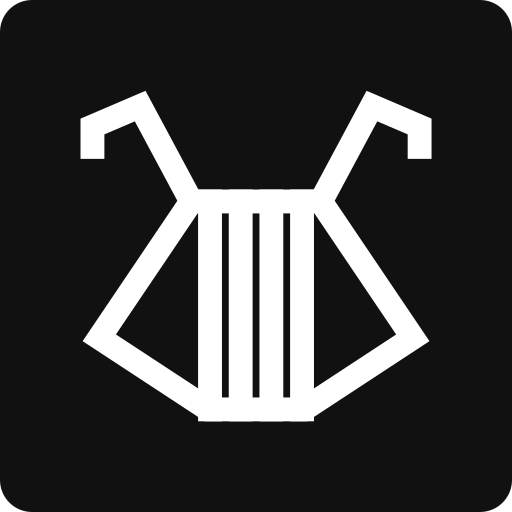
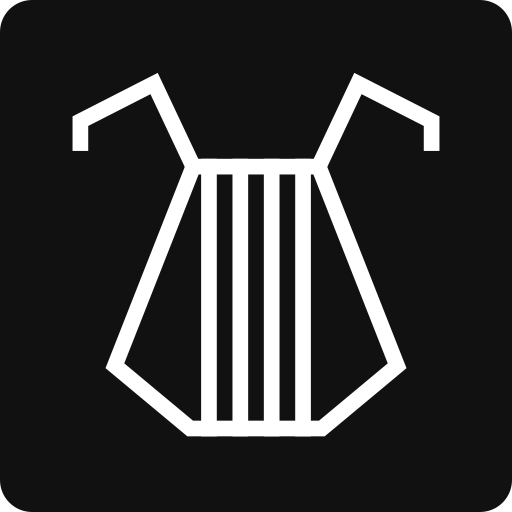
Follow the sketch more closely: taller body, thinner strokes, strings spread across the bar

Changed region(s): [[0.125, 0.125, 0.875, 0.875]]

diff --git a/apps/web/src/ui/brand/Wordmark.tsx b/apps/web/src/ui/brand/Wordmark.tsx
@@ -10,18 +10,18 @@ export function Mark({ size = 20 }: { size?: number }) {
     <svg
       width={size}
       height={size}
-      viewBox="12 24 216 208"
+      viewBox="0 4 240 236"
       className={mark}
       aria-hidden="true"
       fill="none"
       stroke="currentColor"
-      strokeWidth={14}
+      strokeWidth={10}
       strokeLinecap="square"
       strokeLinejoin="miter"
     >
-      <path d="M82 96 H158 L212 176 L148 218 H92 L28 176 Z" />
-      <path d="M82 96 L52 40 L24 52 V64 M158 96 L188 40 L216 52 V64" />
-      <path d="M93 96 V218 M111 96 V218 M129 96 V218 M147 96 V218" />
+      <path d="M80 65 H160 L210 192 L162 232 H78 L30 192 Z" />
+      <path d="M80 65 L55 12 L8 36 V50 M160 65 L185 12 L232 36 V50" />
+      <path d="M90 65 V232 M110 65 V232 M130 65 V232 M150 65 V232" />
     </svg>
   );
 }
